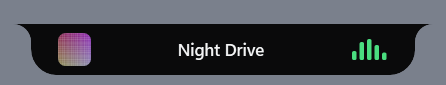
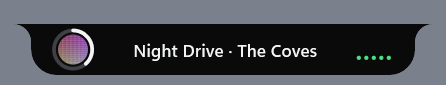
docs: refresh notch screenshots, music page GIF, promo GIFs and site images for the music page

Changed region(s): [[0.2915, 0.4941, 0.7287, 0.7294], [0.1166, 0.3294, 0.2332, 0.8235], [0.787, 0.4471, 0.8744, 0.7059]]

diff --git a/site/index.html b/site/index.html
@@ -64,7 +64,7 @@
     <section class="hero">
       <div class="aurora" aria-hidden="true"><span></span><span></span><span></span></div>
       <div class="stage stage--hero" data-notch="hero">
-        <img data-i18n-attr="src:img.kapali" class="stage__closed" src="img/centik-kapali.webp?v=20261114" width="420" height="51" alt="">
+        <img data-i18n-attr="src:img.kapali" class="stage__closed" src="img/centik-kapali.webp?v=20261121" width="414" height="51" alt="">
         <img class="stage__open" id="hero-open" src="img/centik-ana.webp?v=20261114" width="930" height="528" fetchpriority="high"
              alt="The open Koy notch: date and weather, upcoming events, focus timer, headphone battery, system status and quick launch" data-i18n-attr="alt:hero.openAlt,src:img.ana">
         <button class="stage__zone" type="button" data-notch-zone aria-expanded="false" aria-controls="hero-open" aria-label="Open or close the notch" data-i18n-attr="aria-label:hero.zone"></button>
@@ -138,12 +138,12 @@
             <div class="aurora aurora--still" aria-hidden="true"><span></span><span></span><span></span></div>
             <div class="stage stage--shots">
               <img class="shot is-active" data-key="ana" src="img/centik-ana.webp?v=20261114" width="930" height="528" loading="lazy" alt="Notch Home page: weather, events, focus, headphones, system and quick launch" data-i18n-attr="alt:shot.home,src:img.ana">
-              <img class="shot" data-key="muzik" src="img/centik-muzik.webp?v=20261114" width="930" height="528" loading="lazy" alt="Notch Music page: cover art, progress and playback controls" data-i18n-attr="alt:shot.music,src:img.muzik">
+              <img class="shot" data-key="muzik" src="img/centik-muzik.webp?v=20261121" width="720" height="410" loading="lazy" alt="Notch Music page: track change, mirror wave, vinyl mode and synced lyrics" data-i18n-attr="alt:shot.music,src:img.muzik">
               <img class="shot" data-key="takvim" src="img/centik-takvim.webp?v=20261114" width="930" height="528" loading="lazy" alt="Notch Calendar page: month view, timer and events" data-i18n-attr="alt:shot.calendar,src:img.takvim">
               <img class="shot" data-key="kontrol" src="img/centik-kontrol.webp?v=20261114" width="930" height="528" loading="lazy" alt="Control Center: Wi-Fi, Bluetooth, volume and brightness" data-i18n-attr="alt:shot.control,src:img.kontrol">
               <img class="shot" data-key="wifi" src="img/centik-wifi.webp?v=20261114" width="930" height="528" loading="lazy" alt="Wi-Fi network list in the notch" data-i18n-attr="alt:shot.wifi,src:img.wifi">
               <img class="shot" data-key="arkaplan" src="img/centik-arkaplan.webp?v=20261114" width="720" height="409" loading="lazy" alt="The open notch cycling through its live backgrounds" data-i18n-attr="alt:shot.backgrounds,src:img.arkaplan">
-              <img class="shot shot--closed" data-key="kapali" src="img/centik-kapali.webp?v=20261114" width="420" height="51" loading="lazy" alt="Closed notch: cover art and waveform while music plays" data-i18n-attr="src:img.kapali,alt:shot.closed">
+              <img class="shot shot--closed" data-key="kapali" src="img/centik-kapali.webp?v=20261121" width="414" height="51" loading="lazy" alt="Closed notch: cover art with a progress ring and a waveform while music plays" data-i18n-attr="src:img.kapali,alt:shot.closed">
             </div>
           </div>
         </div>
@@ -167,7 +167,7 @@
           <div class="scene scene--tall">
             <div class="aurora aurora--still" aria-hidden="true"><span></span><span></span><span></span></div>
             <div class="stage stage--demo" data-notch="demo">
-              <img data-i18n-attr="src:img.kapali" class="stage__closed" src="img/centik-kapali.webp?v=20261114" width="420" height="51" loading="lazy" alt="">
+              <img data-i18n-attr="src:img.kapali" class="stage__closed" src="img/centik-kapali.webp?v=20261121" width="414" height="51" loading="lazy" alt="">
               <img class="stage__open" id="demo-open" src="img/centik-ana.webp?v=20261114" width="930" height="528" loading="lazy" alt="The opened notch: weather, events, headphone battery, system and quick launch" data-i18n-attr="alt:demo.openAlt,src:img.ana">
               <button class="stage__zone" type="button" data-notch-zone aria-expanded="false" aria-controls="demo-open" aria-label="Open or close the notch" data-i18n-attr="aria-label:hero.zone"></button>
             </div>

diff --git a/site/js/i18n.js b/site/js/i18n.js
@@ -40,12 +40,12 @@
       'tab.home': 'Home',
       'tab.music': 'Music',
       'img.ana': 'img/centik-ana.webp?v=20261114',
-      'img.muzik': 'img/centik-muzik.webp?v=20261114',
+      'img.muzik': 'img/centik-muzik.webp?v=20261121',
       'img.kontrol': 'img/centik-kontrol.webp?v=20261114',
       'img.takvim': 'img/centik-takvim.webp?v=20261114',
       'img.wifi': 'img/centik-wifi.webp?v=20261114',
       'img.arkaplan': 'img/centik-arkaplan.webp?v=20261114',
-      'img.kapali': 'img/centik-kapali.webp?v=20261114',
+      'img.kapali': 'img/centik-kapali.webp?v=20261121',
       'tab.calendar': 'Calendar',
       'tab.control': 'Control Center',
       'tab.wifi': 'Wi-Fi',
@@ -60,12 +60,12 @@
       'panel.closed': 'When closed, the notch stays small: cover art and a waveform if music is playing, otherwise the clock and battery. A brief indicator appears when volume or brightness changes.',
       'panel.note': 'There are also Focus, Shelf (drag and drop files and text), Clipboard and System pages.',
       'shot.home': 'Notch Home page: weather, events, focus, headphones, system and quick launch',
-      'shot.music': 'Notch Music page: cover art, progress and playback controls',
+      'shot.music': 'Notch Music page: track change, mirror wave, vinyl mode and synced lyrics',
       'shot.calendar': 'Notch Calendar page: month view, timer and events',
       'shot.control': 'Control Center: Wi-Fi, Bluetooth, volume and brightness',
       'shot.wifi': 'Wi-Fi network list in the notch',
       'shot.backgrounds': 'The open notch cycling through its live backgrounds',
-      'shot.closed': 'Closed notch: cover art and waveform while music plays',
+      'shot.closed': 'Closed notch: cover art with a progress ring and a waveform while music plays',
 
       'dock.title': "Replaces the taskbar. Doesn't copy it.",
       'dock.lead': 'A floating capsule or a full-width bar. The Windows taskbar hides and the dock takes over.',
@@ -159,12 +159,12 @@
       'tab.home': 'Ana',
       'tab.music': 'Müzik',
       'img.ana': 'img/centik-ana-tr.webp?v=20261114',
-      'img.muzik': 'img/centik-muzik-tr.webp?v=20261114',
+      'img.muzik': 'img/centik-muzik-tr.webp?v=20261121',
       'img.kontrol': 'img/centik-kontrol-tr.webp?v=20261114',
       'img.takvim': 'img/centik-takvim-tr.webp?v=20261114',
       'img.wifi': 'img/centik-wifi-tr.webp?v=20261114',
       'img.arkaplan': 'img/centik-arkaplan-tr.webp?v=20261114',
-      'img.kapali': 'img/centik-kapali-tr.webp?v=20261114',
+      'img.kapali': 'img/centik-kapali-tr.webp?v=20261121',
       'tab.calendar': 'Takvim',
       'tab.control': 'Kontrol Merkezi',
       'tab.wifi': 'Wi-Fi',
@@ -179,12 +179,12 @@
       'panel.closed': 'Kapalıyken çentik küçük kalır: müzik çalıyorsa kapak ve dalga, çalmıyorsa saat ve pil. Ses ya da parlaklık değişince kısa bir gösterge çıkar.',
       'panel.note': 'Ayrıca Odak, Raf (dosya ve metin sürükle-bırak), Pano ve Sistem sayfaları var.',
       'shot.home': 'Çentik Ana sayfası: hava, etkinlikler, odak, kulaklık, sistem ve hızlı başlat',
-      'shot.music': 'Çentik Müzik sayfası: kapak, ilerleme ve oynatma kontrolleri',
+      'shot.music': 'Çentik Müzik sayfası: parça geçişi, ayna dalga, plak modu ve eşzamanlı sözler',
       'shot.calendar': 'Çentik Takvim sayfası: ay görünümü, zamanlayıcı ve etkinlikler',
       'shot.control': 'Kontrol Merkezi: Wi-Fi, Bluetooth, ses ve parlaklık',
       'shot.wifi': 'Çentikte Wi-Fi ağ listesi',
       'shot.backgrounds': 'Açık çentik, canlı arka planlar arasında geçiyor',
-      'shot.closed': 'Kapalı çentik: müzik çalarken kapak ve dalga',
+      'shot.closed': 'Kapalı çentik: müzik çalarken ilerleme halkalı kapak ve dalga',
 
       'dock.title': 'Görev çubuğunun yerine. Aynısı değil.',
       'dock.lead': 'Yüzen bir kapsül ya da ekran genişliğinde bir çubuk. Windows görev çubuğu gizlenir, işi dock devralır.',

diff --git a/tools/Koy.UiSnapshots/MusicPromoRecorder.cs b/tools/Koy.UiSnapshots/MusicPromoRecorder.cs
@@ -1,0 +1,120 @@
+using System.Diagnostics;
+using System.IO;
+using System.Windows;
+using System.Windows.Media;
+using System.Windows.Media.Imaging;
+using System.Windows.Threading;
+using Koy.App.Features.Notch;
+
+namespace Koy.UiSnapshots;
+
+/// <summary>
+/// Müzik sayfasının tanıtım kaydı (#182): gerçek çentik penceresi ekran dışında açılır, örnek parçalarla bir senaryo
+/// oynar (kapalı çentik, yaylı açılış ve kademeli giriş, ayna dalga, parça değişimi, plak, duraklat/çal, sözler,
+/// kapanış). Animasyonlar uygulamadaki gibi gerçek zamanda çalışır; ~15 fps'de saydam PNG kare ve her karenin zamanı
+/// (<c>frames.txt</c>, ms) yazılır. GIF ve WebP'yi kare klasöründen ayrı bir betik üretir (marketing/, git dışı).
+/// Gerçek medya oturumu, ses ya da ağ kullanılmaz; ses düzeyleri yapaydır.
+/// </summary>
+internal static class MusicPromoRecorder
+{
+    private const double Scale = 2;
+    private const double FrameSeconds = 1.0 / 15;
+
+    public static void Record(string outDir, string prefix,
+        Func<(NotchWindow Window, NotchViewModel Vm, FakeMedia Media, byte[] SecondCover)> make)
+    {
+        var dir = Path.Combine(outDir, prefix + "-muzik-kayit");
+        Directory.CreateDirectory(dir);
+        foreach (var old in Directory.GetFiles(dir, "*.png"))
+            File.Delete(old);
+
+        var (window, vm, media, secondCover) = make();
+        window.Show();
+        Pump(TimeSpan.FromMilliseconds(300));
+        // Açılışta pencere ekranın üst ortasına yerleşir; kayıt ekranda görünmesin.
+        window.Left = -4000;
+        window.Top = -4000;
+
+        var music = vm.Music;
+        music.SetSpectrumAllowed(true);
+        var second = new Koy.Core.Media.MediaInfo(Sample.T("Deniz Feneri", "Lighthouse"), Sample.T("Kıyı", "The Shore"),
+            "Spotify.exe", true, secondCover);
+
+        // Senaryo: (saniye, eylem). Zamanlar gerçek saatle; animasyonlar kendi yaylarıyla akar.
+        var script = new (double At, Action Do)[]
+        {
+            (1.5, () => { vm.Controller.Expand(Koy.Core.Notch.NotchPanel.Home); vm.ShowHomePageCommand.Execute(Koy.Core.Notch.NotchHomePage.Music); }),
+            (5.0, () => media.Set(second, TimeSpan.FromSeconds(66))),
+            (7.5, () => music.SetVinyl(true)),
+            (10.0, () => media.Set(second with { IsPlaying = false })),
+            (11.5, () => media.Set(second with { IsPlaying = true }, TimeSpan.FromSeconds(81))),
+            (13.0, () => { music.SetVinyl(false); music.Lyrics.SetAllowed(true); }),
+            (17.5, () => vm.Controller.OnMouseLeaveTimeout()),
+        };
+        const double end = 19;
+
+        // Pencerenin tamamı (sabit 640×364 tuval): kök öğe çentik şekli kadar büyüdüğü için onu değil pencereyi çizeriz.
+        var content = (FrameworkElement)window;
+        var times = new List<long>();
+        var clock = Stopwatch.StartNew();
+        var next = 0;
+        var frame = 0;
+        while (clock.Elapsed.TotalSeconds < end)
+        {
+            var now = clock.Elapsed.TotalSeconds;
+            while (next < script.Length && script[next].At <= now)
+                script[next++].Do();
+
+            music.Spectrum.Push(Levels(now, music.IsPlaying));
+            Pump(TimeSpan.FromMilliseconds(5));
+            Capture(content, Path.Combine(dir, $"f{frame++:0000}.png"));
+            times.Add(clock.ElapsedMilliseconds);
+
+            var wait = FrameSeconds * frame - clock.Elapsed.TotalSeconds;
+            if (wait > 0)
+                Pump(TimeSpan.FromSeconds(wait));
+        }
+
+        File.WriteAllLines(Path.Combine(dir, "frames.txt"), times.Select(t => t.ToString(System.Globalization.CultureInfo.InvariantCulture)));
+        Console.WriteLine($"{frame} kare, {clock.Elapsed.TotalSeconds:0.0} sn: {dir}");
+        window.Close();
+        vm.Dispose();
+    }
+
+    // Yapay ses: bas bantlar güçlü, her bant kendi hızında dalgalanır; duraklatınca sessiz.
+    private static float[] Levels(double t, bool playing)
+    {
+        var levels = new float[24];
+        if (!playing)
+            return levels;
+
+        for (var i = 0; i < levels.Length; i++)
+        {
+            var weight = 1.0 - i / 32.0;
+            var wave = Math.Abs(Math.Sin(t * (2.1 + i * 0.37) + i * 1.7)) * 0.6 + Math.Abs(Math.Sin(t * 5.3 + i)) * 0.25;
+            levels[i] = (float)Math.Clamp(0.12 + wave * weight, 0, 1);
+        }
+        return levels;
+    }
+
+    private static void Capture(FrameworkElement content, string path)
+    {
+        var width = (int)Math.Ceiling(content.ActualWidth * Scale);
+        var height = (int)Math.Ceiling(content.ActualHeight * Scale);
+        var bitmap = new RenderTargetBitmap(width, height, 96 * Scale, 96 * Scale, PixelFormats.Pbgra32);
+        bitmap.Render(content);
+        var encoder = new PngBitmapEncoder();
+        encoder.Frames.Add(BitmapFrame.Create(bitmap));
+        using var stream = File.Create(path);
+        encoder.Save(stream);
+    }
+
+    private static void Pump(TimeSpan duration)
+    {
+        var frame = new DispatcherFrame();
+        var timer = new DispatcherTimer(DispatcherPriority.Background) { Interval = duration };
+        timer.Tick += (_, _) => { timer.Stop(); frame.Continue = false; };
+        timer.Start();
+        Dispatcher.PushFrame(frame);
+    }
+}

diff --git a/tools/Koy.UiSnapshots/Program.cs b/tools/Koy.UiSnapshots/Program.cs
@@ -106,6 +106,8 @@ public static class Program
                 RenderEffectVideos(outDir, Arg(args, "--preset"), int.TryParse(Arg(args, "--fps"), out var fps) && fps is >= 1 and <= 30 ? fps : 15);
             else if (scene == "efekt-cpu")
                 MeasureEffects();
+            else if (scene == "muzik-kayit")
+                MusicPromoRecorder.Record(outDir, prefix + "-" + theme, MakeMusicNotchForRecording);
             else if (scene == "sozler-canli")
             {
                 LyricsLiveCheck.Run(outDir, prefix + "-" + theme, RenderElement);
@@ -137,6 +139,16 @@ public static class Program
 
         Console.WriteLine($"Bitti: {outDir}");
         return 0;
+    }
+
+    // Kayıt sahnesi için: örnek medya dışarıdan yönetilir (parça değişimi), konum gerçek zamanla ilerler.
+    private static (Koy.App.Features.Notch.NotchWindow Window, Koy.App.Features.Notch.NotchViewModel Vm, FakeMedia Media, byte[] SecondCover) MakeMusicNotchForRecording()
+    {
+        var info = new Koy.Core.Media.MediaInfo(Sample.T("Gece Yolculuğu", "Night Drive"), Sample.T("Mor ve Ötesi", "The Coves"), "Spotify.exe", true, FakeCover(300, 300));
+        var media = new FakeMedia(info, liveClock: true);
+        // Şarjda: pilde "hareketi azalt" ses çubuklarını kapatırdı, ayna dalga kayda girmezdi.
+        var set = MakeNotch(music: true, liveClock: true, media: media, power: new FakePower(86, charging: true));
+        return (set.Window, set.Vm, media, FakeCover(300, 300, warm: true));
     }
 
     // Sözler gerçek müzik sayfasının içinde (#182): çentik penceresi ekran dışında gösterilir, Müzik sayfası açık,
@@ -322,7 +334,7 @@ public static class Program
         bool locationBlocked = false, bool audioConnected = true, Func<Koy.Core.SystemStats.ISystemStatsService>? statsFactory = null,
         bool brightnessSupported = true, bool wideCover = false, Koy.Core.Notch.NotchStyleMode notchStyle = Koy.Core.Notch.NotchStyleMode.Pinned,
         Koy.Core.Notch.IdleDisplayMode idleMode = Koy.Core.Notch.IdleDisplayMode.ClockAndBattery, FakePower? power = null, string? language = null,
-        bool clockShowDate = false, string? liveBackground = null, bool liveClock = false)
+        bool clockShowDate = false, string? liveBackground = null, bool liveClock = false, FakeMedia? media = null)
     {
         var settings = new AppSettings
         {
@@ -363,7 +375,7 @@ public static class Program
             settings,
             controller,
             // Yakalama başlatılmayan servis: çubuklar aşağıda sahte düzeylerle doldurulur, gerçek ses okunmaz.
-            new Koy.App.Features.Music.MusicViewModel(new FakeMedia(info, liveClock), spectrumAcquire: () => new Koy.Platform.Audio.SpectrumCaptureService(), lyricsProvider: new FakeLyrics()),
+            new Koy.App.Features.Music.MusicViewModel(media ?? new FakeMedia(info, liveClock), spectrumAcquire: () => new Koy.Platform.Audio.SpectrumCaptureService(), lyricsProvider: new FakeLyrics()),
             new Koy.App.Features.ControlCenter.ControlCenterViewModel(
                 () => new FakeAudio(), () => new FakeRadio(), null, () => new FakeBrightness(brightnessSupported), new FakeFocusAssist(), settings,
                 wifiFactory: () => new FakeWifi(locationBlocked),

diff --git a/tools/Koy.UiSnapshots/CentikFakes.cs b/tools/Koy.UiSnapshots/CentikFakes.cs
@@ -14,14 +14,26 @@ namespace Koy.UiSnapshots;
 // liveClock: konum gerçek zamanla ilerler (sözlerin canlı kayma denetimi için); varsayılan sabit 1:24.
 internal sealed class FakeMedia(MediaInfo? current, bool liveClock = false) : IMediaService
 {
-    public event EventHandler<MediaInfo?>? Changed { add { } remove { } }
-    public event EventHandler<PlaybackTimeline?>? TimelineChanged { add { } remove { } }
+    public event EventHandler<MediaInfo?>? Changed;
+    public event EventHandler<PlaybackTimeline?>? TimelineChanged;
     public event EventHandler<IReadOnlyList<MediaSessionInfo>>? SessionsChanged { add { } remove { } }
 
-    public MediaInfo? Current { get; } = current;
-    public PlaybackTimeline? Timeline { get; } = current is null
+    public MediaInfo? Current { get; private set; } = current;
+    public PlaybackTimeline? Timeline { get; private set; } = current is null
         ? null
         : new PlaybackTimeline(TimeSpan.FromSeconds(84), TimeSpan.Zero, TimeSpan.FromSeconds(221), liveClock ? DateTimeOffset.Now : DateTimeOffset.MinValue);
+
+    /// <summary>Kayıt sahnesi için parça ya da çalma durumu değişimi: oynatıcı bildirimi gibi olay atar.</summary>
+    public void Set(MediaInfo info, TimeSpan? position = null)
+    {
+        Current = info;
+        Changed?.Invoke(this, info);
+        if (position is { } p)
+        {
+            Timeline = new PlaybackTimeline(p, TimeSpan.Zero, TimeSpan.FromSeconds(221), DateTimeOffset.Now);
+            TimelineChanged?.Invoke(this, Timeline);
+        }
+    }
     public IReadOnlyList<MediaSessionInfo> Sessions { get; } = [];
 
     public Task StartAsync() => Task.CompletedTask;

diff --git a/README.md b/README.md
@@ -35,14 +35,18 @@
 
 | | |
 | :---: | :---: |
-| <img alt="Closed notch while music is playing" src="docs/screenshots/centik-kapali-en.png" width="360"><br><sub>Closed notch: cover art and waveform while music plays</sub> | <img alt="Dock" src="docs/screenshots/dock.png" width="420"><br><sub>Dock: replaces the Windows taskbar</sub> |
-| <img alt="Notch: Home page" src="docs/screenshots/centik-ana-en.png" width="420"><br><sub>Home: date and weather, upcoming events, focus timer, headphone battery, system and network, quick launch</sub> | <img alt="Notch: Music page" src="docs/screenshots/centik-muzik-en.png" width="420"><br><sub>Music: cover art, progress and controls on a page of its own</sub> |
+| <img alt="Closed notch while music is playing" src="docs/screenshots/centik-kapali-en.png" width="360"><br><sub>Closed notch: cover art with a progress ring and a waveform while music plays</sub> | <img alt="Dock" src="docs/screenshots/dock.png" width="420"><br><sub>Dock: replaces the Windows taskbar</sub> |
+| <img alt="Notch: Home page" src="docs/screenshots/centik-ana-en.png" width="420"><br><sub>Home: date and weather, upcoming events, focus timer, headphone battery, system and network, quick launch</sub> | <img alt="Notch: Music page" src="docs/screenshots/centik-muzik-en.png" width="420"><br><sub>Music: a mirror wave in the cover color over flowing cover colors, with vinyl and lyrics buttons</sub> |
 | <img alt="Control Center" src="docs/screenshots/centik-kontrol-en.png" width="420"><br><sub>Control Center: Wi-Fi, Bluetooth, volume, brightness</sub> | <img alt="Calendar" src="docs/screenshots/centik-takvim-en.png" width="420"><br><sub>Calendar: month, week and day views, events</sub> |
 | <img alt="Wi-Fi list" src="docs/screenshots/centik-wifi-en.png" width="420"><br><sub>Wi-Fi list: network selection like in Windows</sub> | |
 
 **Live backgrounds:** 17 moving backgrounds play behind the open notch (or pick your own image, GIF or video).
 
 <p align="center"><img alt="The open notch cycling through its 17 live backgrounds" src="docs/screenshots/koy-backgrounds.gif" width="640"></p>
+
+**Music page:** the notch springs open and the page enters piece by piece; the cover slides on a track change, vinyl mode spins the cover as a record (the tone arm lifts on pause), and synced lyrics keep the current line in the middle.
+
+<p align="center"><img alt="Music page: opening, mirror wave, track change, vinyl mode, synced lyrics and closing" src="docs/screenshots/koy-music.gif" width="640"></p>
 
 <sub>Notch images were rendered with sample data (`tools/Koy.UiSnapshots`); the dock image is from a real screen. The app UI is available in English and Turkish.</sub>
 
@@ -68,11 +72,11 @@ Most desktop customization tools (those based on Electron, Tauri or WebView2) st
 
 ### 1. Spring-Animated Notch & OSD HUD
 Positioned at the top center of the screen (`Top = 0`) with a custom `NotchShape` vector geometry that has concave top ears:
-- **Idle State (236×34 px):** Clock on the left, battery percentage on the right; if the Control panel is enabled, Wi-Fi and Bluetooth status icons in the middle (dimmed and struck through when off, show status on hover, open the Control tab on click; no icon appears if the radio is missing). While music plays, album art (22×22 px) on the left and a 4-bar waveform icon that uses **0% CPU** on the right.
+- **Idle State (236×34 px):** Clock on the left, battery percentage on the right; if the Control panel is enabled, Wi-Fi and Bluetooth status icons in the middle (dimmed and struck through when off, show status on hover, open the Control tab on click; no icon appears if the radio is missing). While music plays, round album art with a progress ring on the left, "Title · Artist" in the middle and a small waveform on the right.
 - **OSD HUD Indicators (260×40 px):** A smooth indicator appears in the notch for 1.5 seconds when system volume or display brightness changes (white `#F4F4F5` for volume, yellow `#FACC15` for brightness). Wired to system volume (CoreAudio) and brightness (WMI / DDC-CI) changes; each can be turned off separately in the Koy window. The brightness indicator only works on displays whose brightness can be read.
 - **Battery and Bluetooth Notifications:** Plugging in or unplugging the charger, below 20% and 10%, full battery; when a paired Bluetooth device connects or disconnects, its name and battery briefly appear in the notch.
 - **Expanding 7-Tab Panel:** Switch between panels from the tab bar at the bottom (Home, Focus, Calendar, Shelf, Clipboard, System, Control; those enabled in settings, in the configured order) or with the mouse wheel.
-  - **Music:** Cover art, track and artist info, an interactive timeline (`Seek`) and multi-session switching for Spotify, YouTube (Edge/Chrome/Firefox) and media players via `GlobalSystemMediaTransportControls`.
+  - **Music:** Cover art, track and artist info, an interactive timeline (`Seek`) and multi-session switching for Spotify, YouTube (Edge/Chrome/Firefox) and media players via `GlobalSystemMediaTransportControls`. Its own page adds a track change transition, a mirror wave in the cover color, flowing cover colors behind the card, vinyl mode and synced lyrics. Every animation is drawn without shader effects and stops when the notch closes or music pauses.
   - **Calendar & Pomodoro:** Monday-first month view and a state-machine **Pomodoro** timer with work, short break and long break (spring-bounce Peek notification when time is up).
   - **Shelf:** Drag and drop files or text onto the notch (`%AppData%\Koy\shelf.json`). When you drag a file over the notch, it opens by itself and switches to the Shelf tab.
   - **Control Center:** CoreAudio volume, WMI (built-in) and DDC/CI (external monitor) hardware brightness sliders, Do Not Disturb status, and Wi-Fi and Bluetooth toggles that really turn them on and off (if the radio is missing, off, or Windows does not allow it, the tile says so and opens Windows settings).

diff --git a/README.tr.md b/README.tr.md
@@ -35,14 +35,18 @@
 
 | | |
 | :---: | :---: |
-| <img alt="Kapalı çentik, müzik çalarken" src="docs/screenshots/centik-kapali.png" width="360"><br><sub>Kapalı çentik: müzik çalarken kapak ve dalga</sub> | <img alt="Dock" src="docs/screenshots/dock.png" width="420"><br><sub>Dock: Windows görev çubuğunun yerine</sub> |
-| <img alt="Çentik: Ana sayfa" src="docs/screenshots/centik-ana.png" width="420"><br><sub>Ana: tarih ve hava, sıradaki etkinlikler, odak sayacı, kulaklık pili, sistem ve ağ, hızlı başlat</sub> | <img alt="Çentik: Müzik sayfası" src="docs/screenshots/centik-muzik.png" width="420"><br><sub>Müzik: kapak, ilerleme ve kontroller kendi sayfasında</sub> |
+| <img alt="Kapalı çentik, müzik çalarken" src="docs/screenshots/centik-kapali.png" width="360"><br><sub>Kapalı çentik: müzik çalarken ilerleme halkalı kapak ve dalga</sub> | <img alt="Dock" src="docs/screenshots/dock.png" width="420"><br><sub>Dock: Windows görev çubuğunun yerine</sub> |
+| <img alt="Çentik: Ana sayfa" src="docs/screenshots/centik-ana.png" width="420"><br><sub>Ana: tarih ve hava, sıradaki etkinlikler, odak sayacı, kulaklık pili, sistem ve ağ, hızlı başlat</sub> | <img alt="Çentik: Müzik sayfası" src="docs/screenshots/centik-muzik.png" width="420"><br><sub>Müzik: akan kapak renkleri üstünde kapak renginde ayna dalga, plak ve sözler düğmeleri</sub> |
 | <img alt="Kontrol Merkezi" src="docs/screenshots/centik-kontrol.png" width="420"><br><sub>Kontrol Merkezi: Wi-Fi, Bluetooth, ses, parlaklık</sub> | <img alt="Takvim" src="docs/screenshots/centik-takvim.png" width="420"><br><sub>Takvim: ay, hafta ve gün görünümü, etkinlikler</sub> |
 | <img alt="Wi-Fi listesi" src="docs/screenshots/centik-wifi.png" width="420"><br><sub>Wi-Fi listesi: Windows'taki gibi ağ seçimi</sub> | |
 
 **Canlı arka planlar:** Açık çentiğin arkasında 17 hareketli arka plan oynar (istersen kendi resmini, GIF'ini ya da videonu seç).
 
 <p align="center"><img alt="Açık çentik, 17 canlı arka plan arasında geçiyor" src="docs/screenshots/koy-arkaplanlar.gif" width="640"></p>
+
+**Müzik sayfası:** çentik yayla açılır ve sayfa parça parça girer; parça değişince kapak kayar, plak modu kapağı dönen bir plağa çevirir (duraklatınca kol kalkar), eşzamanlı sözlerde çalan satır ortada durur.
+
+<p align="center"><img alt="Müzik sayfası: açılış, ayna dalga, parça geçişi, plak modu, eşzamanlı sözler ve kapanış" src="docs/screenshots/koy-muzik.gif" width="640"></p>
 
 <sub>Çentik görüntüleri örnek verilerle çizildi (`tools/Koy.UiSnapshots`); dock görüntüsü gerçek ekrandan.</sub>
 
@@ -68,11 +72,11 @@ Masaüstü özelleştirme araçlarının çoğu (Electron, Tauri veya WebView2 t
 
 ### 1. Yay Animasyonlu Çentik (Notch) & OSD HUD
 Ekranın üst ortasında (`Top = 0`), içbükey (*concave*) üst kulaklara sahip özel `NotchShape` vektör geometrisiyle konumlanır:
-- **Boşta Durum (236×34 px):** Solda saat, sağda pil yüzdesi; Kontrol paneli açıksa ortada Wi-Fi ve Bluetooth durum simgeleri (kapalıyken soluk ve üstü çizili, üzerine gelince durum yazar, tıklayınca Kontrol sekmesi açılır; radyo yoksa simge çıkmaz). Müzik çalarken solda albüm kapağı (22×22 px), sağda **%0 CPU** harcayan 4 çubuklu dalga ikonu.
+- **Boşta Durum (236×34 px):** Solda saat, sağda pil yüzdesi; Kontrol paneli açıksa ortada Wi-Fi ve Bluetooth durum simgeleri (kapalıyken soluk ve üstü çizili, üzerine gelince durum yazar, tıklayınca Kontrol sekmesi açılır; radyo yoksa simge çıkmaz). Müzik çalarken solda ilerleme halkalı yuvarlak kapak, ortada "Şarkı · Sanatçı", sağda küçük dalga.
 - **OSD HUD Göstergeleri (260×40 px):** Sistem sesi veya ekran parlaklığı değiştiğinde 1,5 saniye boyunca çentikte beliren akıcı gösterge (ses için beyaz `#F4F4F5`, parlaklık için sarı `#FACC15`). Sistem sesi (CoreAudio) ve parlaklık (WMI / DDC-CI) değişimlerine bağlıdır; Koy penceresinden ayrı ayrı kapatılır. Parlaklık göstergesi yalnız parlaklığı okunabilen ekranlarda çalışır.
 - **Pil ve Bluetooth Bildirimleri:** şarja takma/çıkarma, %20 ve %10 altı, dolu pil; eşleşmiş Bluetooth cihazı bağlanınca ya da ayrılınca adı ve pili çentikte kısa süre görünür.
 - **Genişleyen 7 Sekmeli Panel:** Alttaki sekme çubuğundan (Ana, Odak, Takvim, Raf, Pano, Sistem, Kontrol; ayarlarda açık olanlar, ayardaki sırayla) ya da fare tekerleğiyle paneller arasında geçilir.
-  - **Müzik:** `GlobalSystemMediaTransportControls` ile Spotify, YouTube (Edge/Chrome/Firefox) ve medya oynatıcılar için kapak resmi, şarkı/sanatçı bilgisi, interaktif zaman çubuğu (`Seek`) ve çoklu oturum geçişi.
+  - **Müzik:** `GlobalSystemMediaTransportControls` ile Spotify, YouTube (Edge/Chrome/Firefox) ve medya oynatıcılar için kapak resmi, şarkı/sanatçı bilgisi, interaktif zaman çubuğu (`Seek`) ve çoklu oturum geçişi. Kendi sayfasında parça geçişi, kapak renginde ayna dalga, kartın arkasında akan kapak renkleri, plak modu ve eşzamanlı sözler var. Hiçbir animasyon shader efekti kullanmaz; çentik kapanınca ya da müzik duraklayınca durur.
   - **Takvim & Pomodoro:** Pazartesi başlangıçlı ay görünümü ve çalışma/kısa mola/uzun mola durum makineli **Pomodoro** sayacı (süre bitiminde yay titreşimli Peek bildirimi).
   - **Raf (Shelf):** Dosya veya metinleri çentiğe sürükleyip bırakma (`%AppData%\Koy\shelf.json`). Bir dosyayı çentiğin üzerine sürüklediğinizde çentik kendiliğinden açılır ve Raf sekmesine geçer.
   - **Kontrol Merkezi:** CoreAudio ses seviyesi, WMI (dahili) ve DDC/CI (harici monitör) donanım parlaklık kaydırıcıları, Rahatsız Etme durumu ve gerçekten açıp kapatan Wi-Fi ve Bluetooth anahtarları (radyo yoksa, kapalıysa ya da Windows izin vermiyorsa döşeme bunu söyler ve Windows ayarlarını açar).

diff --git a/docs/MAP.md b/docs/MAP.md
@@ -97,7 +97,7 @@ Unutma: çentik kapalı / gizliyken hiçbir şey oynamaz ve kare tutulmaz (AGENT
 | App | `src/App/Features/Music/LyricsView.xaml(.cs)` | Etkin satırı ortaya yayla getirir, vurguyu konumdan hesaplar; kenar maskesi piksel cinsinden kurulur (göreli maske uzun listede bütün sözleri soldurur) |
 | App | `src/App/Features/Music/ProgressRing.cs`, `NotchWindow.xaml` (`MusicStateView`) | Kapalı çentikte kapak çevresindeki ilerleme halkası; ilerleme zamanlayıcısı kapalı çentik görünürken de çalışır |
 | App | `src/App/Features/Home/HomePanel.xaml` | `OutgoingCover`, `IncomingCover`, `TrackTitleBlock`; kademeli giriş öğeleri `CoverFrame`, `TitleRow`, `MusicWave`/`MusicLyrics`, `ProgressRow`, `ControlsRow` |
-| Araç | `tools/Koy.UiSnapshots` (`--scene centik`, `--scene sozler-canli`) | `muzik-gecis-*`, `muzik-acilis-*` ara kareleri, `kapali-muzik`, `muzik-dalga`, `muzik-plak`, `muzik-sozler`; `sozler-canli` sözleri gösterilen bir pencerede, zaman akarken dener ve etkin satır, kayma, saydamlık değerlerini yazar |
+| Araç | `tools/Koy.UiSnapshots` (`--scene centik`, `--scene sozler-canli`) | `muzik-gecis-*`, `muzik-acilis-*` ara kareleri, `kapali-muzik`, `muzik-dalga`, `muzik-plak`, `muzik-sozler`; `sozler-canli` sözleri gösterilen bir pencerede, zaman akarken dener ve etkin satır, kayma, saydamlık değerlerini yazar; `muzik-kayit` tanıtım GIF'i için müzik sayfası senaryosunu gerçek zamanlı kaydeder (`MusicPromoRecorder`) |
 
 Unutma: shader efekti yok (`DropShadowEffect`, `BlurEffect` Direct3D yığınını yükler); yalnız dönüşüm, saydamlık, gradyan, kırpma.
 
@@ -205,6 +205,7 @@ dotnet run --project tools/Koy.UiSnapshots -- --out <klasör> --prefix <ad> --th
 - Araç Win32 kancası, AppBar ya da görev çubuğu servisi başlatmaz; ayarları geçici dosyada tutar.
 - Sitedeki dock: `dotnet run --project tools/Koy.UiSnapshots -- --out <klasör> --prefix site --scene sitedock --transparent --scale 2`. Simgeler görev çubuğuna sabitlenmiş gerçek uygulamalardan gelir; çıktı kırpılıp `site/img/dock.webp` olur.
 - README görselleri `docs/screenshots/` altındadır. Site için WebP'ye çevrilip `site/img/` içine konur.
+- Müzik sayfası GIF'i: `--scene muzik-kayit --lang tr|en` kareleri, GIF/WebP'ye çeviren betik git dışında (`marketing/tanitim-gif/araclar/make_music.py`).
 - Sitedeki çentik görüntüleri saydam zeminlidir (gece mavisi `.aurora` zemininin üstünde durur). Yeni görüntüyü WebP'ye çevirdikten sonra `python scripts/cut-notch-shots.py site/img/<dosya>.webp` ile gri zeminden ayır.
 
 ## Sürüm çıkarmak
